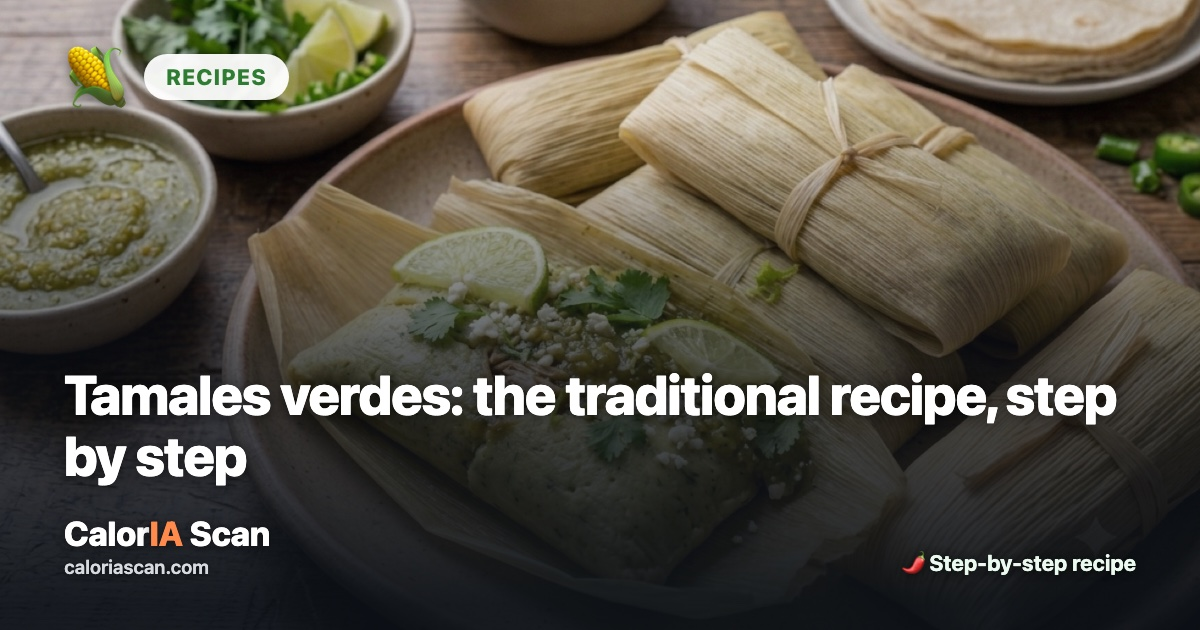
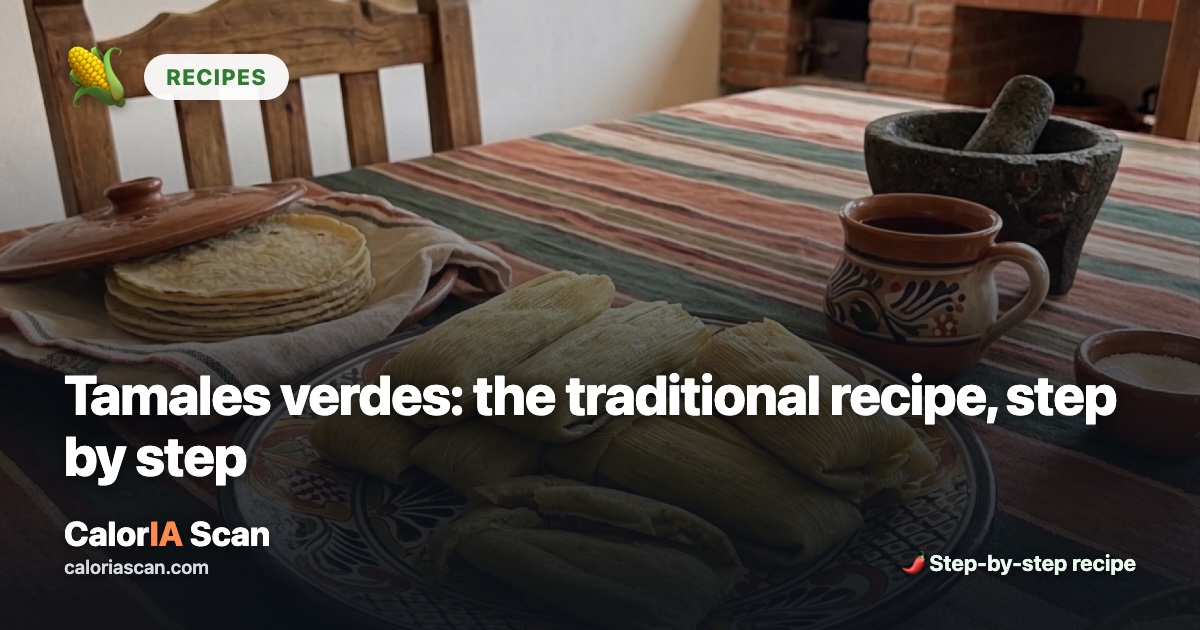
Blog: replace tamales verdes photo, adjust recipe to match
New photo shows whole tamales with green-tinted masa (not a cut-open
plated version with crema/queso/cilantro toppings). Updated the
method to mix part of the salsa verde directly into the masa itself
for that color, rather than only using it in the chicken filling,
and adjusted the dek/tldr copy to match. Also regenerates the OG
share images with the new photo.

diff --git a/blog/receta-tamales-verdes.html b/blog/receta-tamales-verdes.html
@@ -82,12 +82,12 @@ footer{font-size:13px;color:var(--mut);margin-top:16px}footer a{color:var(--mut)
 <nav class="bc"><a href="/">Inicio</a> › <a href="/blog/">Blog</a></nav>
 <span class="chip">Recetas</span>
 <h1>Tamales verdes: la receta tradicional paso a paso</h1>
-<p class="dek">Masa esponjosa, salsa verde con un toque picante y pollo deshebrado, todo envuelto en hoja de maíz. Así se hacen los tamales verdes desde cero.</p>
+<p class="dek">Masa esponjosa teñida de verde con salsa de tomate y chile serrano, con un relleno de pollo deshebrado, todo envuelto en hoja de maíz. Así se hacen los tamales verdes desde cero.</p>
 <p class="meta">Por CalorIA Scan · 4 de agosto de 2026 · 2 min de lectura</p>
 <img class="hero" src="/blog/img/receta-tamales-verdes.jpg" alt="Tamales verdes: la receta tradicional paso a paso" width="1200" height="675" loading="eager">
-<div class="tldr"><h2>En resumen</h2><ul><li>Los tamales verdes llevan tres partes: masa batida con manteca, salsa de tomate verde con chile serrano, y relleno de pollo deshebrado.</li><li>El secreto de una masa esponjosa: batirla hasta que una bolita de masa flote en un vaso de agua.</li><li>Un tamal mediano con relleno de pollo ronda las 200-220 kcal —tres tamales ya se acercan a una comida completa.</li></ul></div>
+<div class="tldr"><h2>En resumen</h2><ul><li>Los tamales verdes llevan la salsa de tomate verde incorporada directo en la masa —por eso salen verdes por dentro—, además del relleno de pollo deshebrado.</li><li>El secreto de una masa esponjosa: batirla hasta que una bolita de masa flote en un vaso de agua.</li><li>Un tamal mediano con relleno de pollo ronda las 200-220 kcal —tres tamales ya se acercan a una comida completa.</li></ul></div>
 <h2>Ingredientes (para unos 16 tamales)</h2><p><ul><li>1 kg de masa de maíz para tamales</li><li>300 g de manteca de cerdo o manteca vegetal</li><li>1 cucharadita de sal</li><li>1 cucharadita de polvo para hornear</li><li>1 taza de caldo de pollo</li><li>500 g de pechuga de pollo, cocida y deshebrada</li><li>500 g de tomate verde (tomatillo), sin cáscara</li><li>2-3 chiles serranos, al gusto</li><li>¼ de cebolla blanca</li><li>1 diente de ajo</li><li>Un puñado de cilantro fresco</li><li>20-24 hojas de maíz secas, remojadas en agua caliente</li></ul></p>
-<h2>Preparación</h2><p><ol><li>Remoja las hojas de maíz en agua caliente durante 30 minutos, hasta que estén flexibles y fáciles de doblar.</li><li>Hierve el tomate verde, los chiles, la cebolla y el ajo en agua durante 8-10 minutos. Licúa con el cilantro y sazona con sal —esta es tu salsa base.</li><li>Bate la manteca sola hasta que esponje y aclare de color. Agrega la masa, la sal y el polvo para hornear, y ve incorporando el caldo poco a poco hasta lograr una pasta suave. Bate 5-8 minutos más: entre más aire le entre, más esponjosos quedan los tamales.</li><li>Mezcla el pollo deshebrado con un poco de la salsa verde para el relleno.</li><li>Extiende una capa de masa sobre cada hoja de maíz, agrega una cucharada de relleno al centro, y cierra doblando los lados y la punta hacia abajo.</li><li>Acomoda los tamales de pie en una vaporera, con la abertura hacia arriba, y cocina 60-75 minutos a fuego medio. Revisa cada 20 minutos que la vaporera no se quede sin agua.</li></ol></p>
+<h2>Preparación</h2><p><ol><li>Remoja las hojas de maíz en agua caliente durante 30 minutos, hasta que estén flexibles y fáciles de doblar.</li><li>Hierve el tomate verde, los chiles, la cebolla y el ajo en agua durante 8-10 minutos. Licúa con el cilantro y sazona con sal —esta es tu salsa base.</li><li>Bate la manteca sola hasta que esponje y aclare de color. Agrega la masa, la sal, el polvo para hornear y unas 4-5 cucharadas de la salsa verde —esto es lo que le da a la masa su color verde por dentro. Ve incorporando el caldo poco a poco hasta lograr una pasta suave. Bate 5-8 minutos más: entre más aire le entre, más esponjosos quedan los tamales.</li><li>Mezcla el pollo deshebrado con un poco de la salsa verde para el relleno.</li><li>Extiende una capa de masa sobre cada hoja de maíz, agrega una cucharada de relleno al centro, y cierra doblando los lados y la punta hacia abajo.</li><li>Acomoda los tamales de pie en una vaporera, con la abertura hacia arriba, y cocina 60-75 minutos a fuego medio. Revisa cada 20 minutos que la vaporera no se quede sin agua.</li></ol></p>
 <h2>Cómo saber si ya están listos</h2><p>El truco de siempre: la masa cocida se despega limpiamente de la hoja de maíz. Saca un tamal y déjalo enfriar un minuto —si la masa se pega a la hoja, todavía les falta tiempo de vapor. Si se despega sola, están listos.</p>
 <h2>Cuántas calorías tiene un tamal</h2><p>Un tamal verde mediano con relleno de pollo ronda las 200-220 kcal —un número parecido al de los <a href="/calorias/tamale">tamales que ya tenemos en nuestro catálogo de calorías</a>, aunque el relleno y la cantidad de manteca mueven el número de un tamal a otro. Si quieres saber exactamente cuánto tiene el tuyo, tómale una foto con CalorIA Scan.</p>
 

diff --git a/en/blog/receta-tamales-verdes.html b/en/blog/receta-tamales-verdes.html
@@ -82,12 +82,12 @@ footer{font-size:13px;color:var(--mut);margin-top:16px}footer a{color:var(--mut)
 <nav class="bc"><a href="/en/">Home</a> › <a href="/en/blog/">Blog</a></nav>
 <span class="chip">Recipes</span>
 <h1>Tamales verdes: the traditional recipe, step by step</h1>
-<p class="dek">Fluffy masa, a mildly spicy tomatillo salsa, and shredded chicken, all wrapped in a corn husk. Here's how real tamales verdes come together from scratch.</p>
+<p class="dek">Fluffy masa tinted green with tomatillo-serrano salsa, filled with shredded chicken, all wrapped in a corn husk. Here's how real tamales verdes come together from scratch.</p>
 <p class="meta">By CalorIA Scan · August 4, 2026 · 2 min read</p>
 <img class="hero" src="/blog/img/receta-tamales-verdes.jpg" alt="Tamales verdes: the traditional recipe, step by step" width="1200" height="675" loading="eager">
-<div class="tldr"><h2>The short version</h2><ul><li>Tamales verdes have three parts: masa whipped with lard, a tomatillo-serrano salsa, and a shredded chicken filling.</li><li>The secret to fluffy masa: whip it until a small ball of it floats in a glass of water.</li><li>A medium chicken tamal runs about 200-220 kcal —three of them already add up to a full meal.</li></ul></div>
+<div class="tldr"><h2>The short version</h2><ul><li>Tamales verdes have the tomatillo salsa whipped directly into the masa —that's what makes them green inside— plus a shredded chicken filling.</li><li>The secret to fluffy masa: whip it until a small ball of it floats in a glass of water.</li><li>A medium chicken tamal runs about 200-220 kcal —three of them already add up to a full meal.</li></ul></div>
 <h2>Ingredients (makes about 16 tamales)</h2><p><ul><li>1 kg (2.2 lb) fresh masa for tamales</li><li>300 g (10.5 oz) lard or vegetable shortening</li><li>1 teaspoon salt</li><li>1 teaspoon baking powder</li><li>1 cup chicken broth</li><li>500 g (1 lb) chicken breast, cooked and shredded</li><li>500 g (1 lb) tomatillos, husked</li><li>2-3 serrano peppers, to taste</li><li>¼ white onion</li><li>1 garlic clove</li><li>A handful of fresh cilantro</li><li>20-24 dried corn husks, soaked in hot water</li></ul></p>
-<h2>Method</h2><p><ol><li>Soak the corn husks in hot water for 30 minutes, until pliable and easy to fold.</li><li>Boil the tomatillos, chiles, onion and garlic in water for 8-10 minutes. Blend with the cilantro and season with salt —this is your base salsa.</li><li>Whip the lard alone until it fluffs up and lightens in color. Add the masa, salt and baking powder, then work in the broth a little at a time until you get a smooth, spreadable paste. Keep whipping for 5-8 more minutes: the more air you beat in, the fluffier the tamales come out.</li><li>Mix the shredded chicken with a bit of the salsa for the filling.</li><li>Spread a layer of masa on each corn husk, add a spoonful of filling in the center, and close by folding the sides in and the tip down.</li><li>Stand the tamales upright in a steamer, opening facing up, and steam for 60-75 minutes over medium heat. Check every 20 minutes that the steamer hasn't run dry.</li></ol></p>
+<h2>Method</h2><p><ol><li>Soak the corn husks in hot water for 30 minutes, until pliable and easy to fold.</li><li>Boil the tomatillos, chiles, onion and garlic in water for 8-10 minutes. Blend with the cilantro and season with salt —this is your base salsa.</li><li>Whip the lard alone until it fluffs up and lightens in color. Add the masa, salt, baking powder and about 4-5 tablespoons of the salsa —this is what gives the masa its green color inside. Work in the broth a little at a time until you get a smooth, spreadable paste. Keep whipping for 5-8 more minutes: the more air you beat in, the fluffier the tamales come out.</li><li>Mix the shredded chicken with a bit of the salsa for the filling.</li><li>Spread a layer of masa on each corn husk, add a spoonful of filling in the center, and close by folding the sides in and the tip down.</li><li>Stand the tamales upright in a steamer, opening facing up, and steam for 60-75 minutes over medium heat. Check every 20 minutes that the steamer hasn't run dry.</li></ol></p>
 <h2>How to tell when they're done</h2><p>The classic test: cooked masa peels cleanly off the corn husk. Pull one out and let it cool for a minute —if the masa sticks to the husk, they need more steam time. If it releases on its own, they're ready.</p>
 <h2>How many calories are in a tamal</h2><p>A medium tamal verde with chicken filling runs about 200-220 kcal —close to the <a href="/en/calories/tamale">tamale reference already in our calorie catalog</a>, though the filling and how much lard goes in can shift that number from one tamal to the next. If you want to know exactly what's in yours, snap a photo with CalorIA Scan.</p>
 

diff --git a/blog/index.html b/blog/index.html
@@ -333,7 +333,7 @@ footer{padding:40px 20px 28px;text-align:center;border-top:.5px solid var(--line
       <div class="thumb"><img src="/blog/img/receta-tamales-verdes.jpg" alt="Tamales verdes: la receta tradicional paso a paso"><span class="badge" style="color:var(--blue);background:rgba(31,82,222,.10)">🌽 Recetas</span></div>
       <div class="body">
         <h3>Tamales verdes: la receta tradicional paso a paso</h3>
-        <p class="dk">Masa esponjosa, salsa verde con un toque picante y pollo deshebrado, todo envuelto en hoja de maíz.</p>
+        <p class="dk">Masa esponjosa teñida de verde con salsa de tomate, con un relleno de pollo deshebrado, todo envuelto en hoja de maíz.</p>
         <span class="dt">4 ago 2026</span>
       </div>
     </a>

diff --git a/en/blog/index.html b/en/blog/index.html
@@ -333,7 +333,7 @@ footer{padding:40px 20px 28px;text-align:center;border-top:.5px solid var(--line
       <div class="thumb"><img src="/blog/img/receta-tamales-verdes.jpg" alt="Tamales verdes: the traditional recipe, step by step"><span class="badge" style="color:var(--blue);background:rgba(31,82,222,.10)">🌽 Recipes</span></div>
       <div class="body">
         <h3>Tamales verdes: the traditional recipe, step by step</h3>
-        <p class="dk">Fluffy masa, a mildly spicy tomatillo salsa, and shredded chicken, all wrapped in a corn husk.</p>
+        <p class="dk">Fluffy masa tinted green with tomatillo salsa, filled with shredded chicken, all wrapped in a corn husk.</p>
         <span class="dt">Aug 4, 2026</span>
       </div>
     </a>
